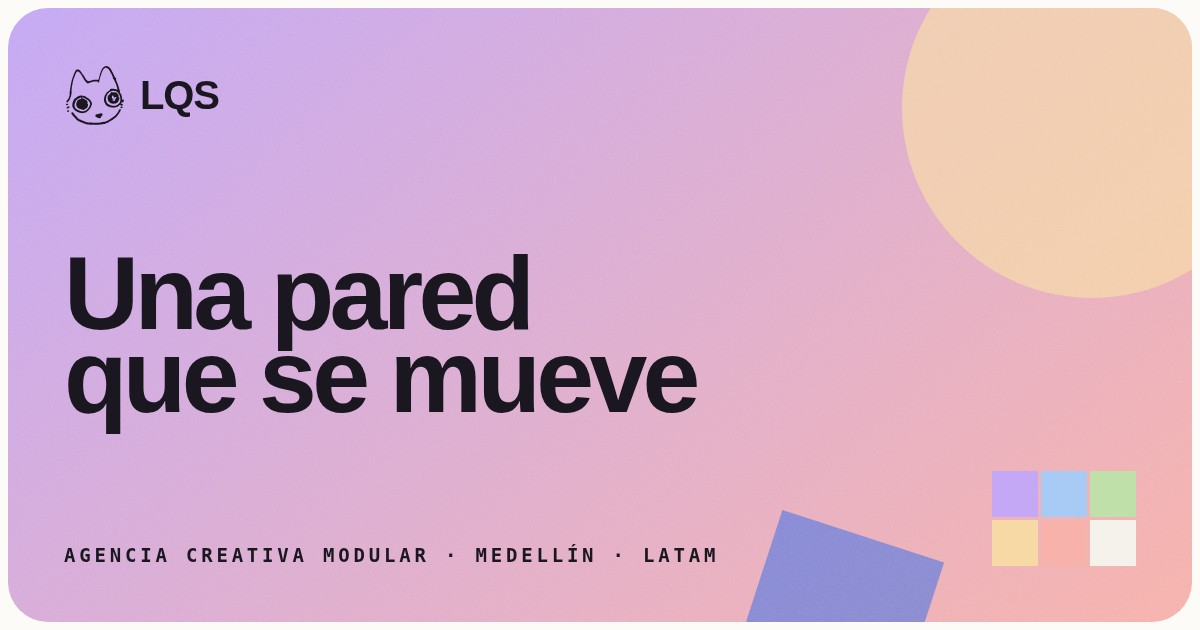
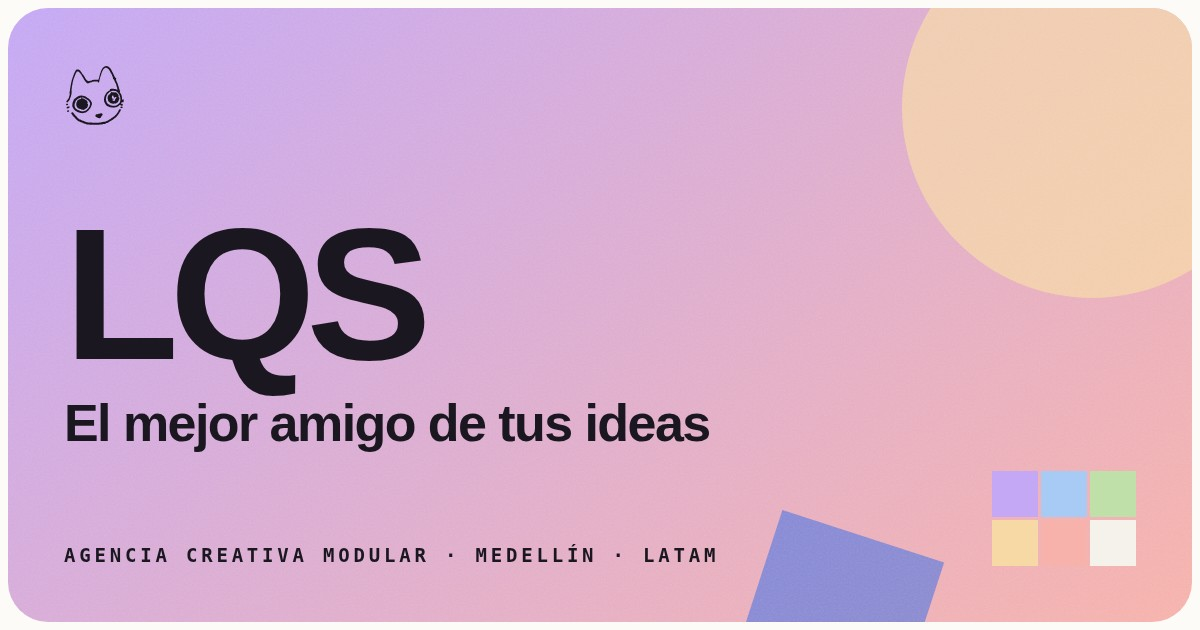
Hero: LQS + «El mejor amigo de tus ideas»
El titular pasa a ser la marca. El concepto «una pared que se mueve»
sigue nombrando al sistema visual, pero ya no es lo que se lee primero.

Changed region(s): [[0.0308, 0.3619, 0.6167, 0.7238], [0.0925, 0.1206, 0.185, 0.181]]

diff --git a/index.html b/index.html
@@ -3,19 +3,19 @@
 <head>
 <meta charset="utf-8">
 <meta name="viewport" content="width=device-width,initial-scale=1">
-<meta name="description" content="LQS es una agencia creativa modular de Medellin para LatAm. Siete modulos que se compran sueltos y se conectan entre si: video, foto, marca, redes, web, eventos y automatizacion.">
+<meta name="description" content="El mejor amigo de tus ideas. LQS es una agencia creativa modular de Medellin para LatAm. Siete modulos que se compran sueltos y se conectan entre si: video, foto, marca, redes, web, eventos y automatizacion.">
 <meta name="theme-color" content="#FDFBF7">
 <link rel="icon" href="favicon.svg" type="image/svg+xml">
 <link rel="canonical" href="https://motta-bit.github.io/lqs/">
 <meta property="og:type" content="website">
 <meta property="og:site_name" content="LQS">
-<meta property="og:title" content="LQS — Una pared que se mueve">
-<meta property="og:description" content="LQS es una agencia creativa modular de Medellin para LatAm. Siete modulos que se compran sueltos y se conectan entre si: video, foto, marca, redes, web, eventos y automatizacion.">
+<meta property="og:title" content="LQS — El mejor amigo de tus ideas">
+<meta property="og:description" content="El mejor amigo de tus ideas. LQS es una agencia creativa modular de Medellin para LatAm. Siete modulos que se compran sueltos y se conectan entre si: video, foto, marca, redes, web, eventos y automatizacion.">
 <meta property="og:url" content="https://motta-bit.github.io/lqs/">
 <meta property="og:image" content="https://motta-bit.github.io/lqs/og.jpg">
 <meta property="og:locale" content="es_CO">
 <meta name="twitter:card" content="summary_large_image">
-<title>LQS</title>
+<title>LQS — El mejor amigo de tus ideas</title>
 <link rel="preconnect" href="https://fonts.gstatic.com" crossorigin>
 <link rel="stylesheet" href="https://fonts.googleapis.com/css2?family=Syne:wght@700;800&family=Rubik:wght@400;500;900&family=IBM+Plex+Mono:wght@400;600&family=Newsreader:ital,wght@1,300&display=swap">
 <style>
@@ -82,15 +82,15 @@ p{margin:0}
   background:linear-gradient(140deg,var(--p-violeta),var(--p-rojo));color:#1A1720;
   padding:clamp(28px,5vw,56px);min-height:min(78vh,620px);
   display:flex;flex-direction:column;justify-content:space-between;gap:30px}
+.hero h1{font-size:clamp(96px,19vw,230px);line-height:.8;letter-spacing:-.05em}
+.hero .lema{font-family:'Syne',system-ui,sans-serif;font-weight:800;
+  font-size:clamp(24px,4.2vw,50px);line-height:1;letter-spacing:-.03em;margin-top:clamp(10px,1.6vw,22px)}
 .hero .lede{max-width:44ch;font-size:clamp(15px,1.7vw,18px)}
 .hero .acc{display:flex;gap:10px;flex-wrap:wrap;margin-top:22px}
 .h-forma{position:absolute;border-radius:50%;background:var(--p-ambar);opacity:.7;
   right:-70px;top:-70px;width:min(300px,46vw);aspect-ratio:1}
 .h-forma2{position:absolute;right:27%;bottom:-70px;width:150px;height:150px;
   background:var(--azul);opacity:.5;transform:rotate(18deg)}
-.h-cara{position:absolute;right:clamp(20px,5vw,60px);bottom:clamp(20px,4vw,48px);
-  width:clamp(84px,12vw,132px);aspect-ratio:1;color:var(--tinta);z-index:2}
-@media(max-width:700px){.h-cara{display:none}}
 
 /* entrada: los bloques se arman. Sin JS o con reduced-motion ya están armados. */
 .arma .apila{animation:apila .72s cubic-bezier(.2,.9,.25,1) both}
@@ -377,7 +377,8 @@ footer{background:var(--tinta);color:var(--papel);margin-top:64px;padding:52px 0
     <div class="h-forma2"></div>
     <div>
       <div class="eyebrow" style="color:#1A1720;opacity:.7">Agencia creativa modular · Medellín · LatAm</div>
-      <h1>Una pared<br>que se mueve</h1>
+      <h1>LQS</h1>
+      <p class="lema">El mejor amigo de tus ideas</p>
     </div>
     <div>
       <p class="lede">No tenés que cambiar de proveedor. Empezás por lo que más te duele
@@ -387,7 +388,6 @@ footer{background:var(--tinta);color:var(--papel);margin-top:64px;padding:52px 0
         <a class="btn ghost" href="#modulos">Ver los módulos</a>
       </div>
     </div>
-    <span class="h-cara" id="hero-cara"></span>
   </div>
 </section>
 
@@ -1161,7 +1161,6 @@ $("#logo-cara").innerHTML = LOGO;
 $("#pie-cara").innerHTML  = LOGO;
 
 /* ---------- caritas de interfaz ---------- */
-var caraHero = new Carita($("#hero-cara"), {gesto:"contenta", seguir:true});
 var caraCot  = new Carita($("#cot-cara"),  {gesto:"guino",    seguir:false});
 
 /* ---------- 00 cabecera ---------- */

diff --git a/fuente/cab.html b/fuente/cab.html
@@ -1,4 +1,4 @@
-<title>LQS</title>
+<title>LQS — El mejor amigo de tus ideas</title>
 <link rel="preconnect" href="https://fonts.gstatic.com" crossorigin>
 <link rel="stylesheet" href="https://fonts.googleapis.com/css2?family=Syne:wght@700;800&family=Rubik:wght@400;500;900&family=IBM+Plex+Mono:wght@400;600&family=Newsreader:ital,wght@1,300&display=swap">
 <style>
@@ -65,15 +65,15 @@ p{margin:0}
   background:linear-gradient(140deg,var(--p-violeta),var(--p-rojo));color:#1A1720;
   padding:clamp(28px,5vw,56px);min-height:min(78vh,620px);
   display:flex;flex-direction:column;justify-content:space-between;gap:30px}
+.hero h1{font-size:clamp(96px,19vw,230px);line-height:.8;letter-spacing:-.05em}
+.hero .lema{font-family:'Syne',system-ui,sans-serif;font-weight:800;
+  font-size:clamp(24px,4.2vw,50px);line-height:1;letter-spacing:-.03em;margin-top:clamp(10px,1.6vw,22px)}
 .hero .lede{max-width:44ch;font-size:clamp(15px,1.7vw,18px)}
 .hero .acc{display:flex;gap:10px;flex-wrap:wrap;margin-top:22px}
 .h-forma{position:absolute;border-radius:50%;background:var(--p-ambar);opacity:.7;
   right:-70px;top:-70px;width:min(300px,46vw);aspect-ratio:1}
 .h-forma2{position:absolute;right:27%;bottom:-70px;width:150px;height:150px;
   background:var(--azul);opacity:.5;transform:rotate(18deg)}
-.h-cara{position:absolute;right:clamp(20px,5vw,60px);bottom:clamp(20px,4vw,48px);
-  width:clamp(84px,12vw,132px);aspect-ratio:1;color:var(--tinta);z-index:2}
-@media(max-width:700px){.h-cara{display:none}}
 
 /* entrada: los bloques se arman. Sin JS o con reduced-motion ya están armados. */
 .arma .apila{animation:apila .72s cubic-bezier(.2,.9,.25,1) both}

diff --git a/fuente/cuerpo.html b/fuente/cuerpo.html
@@ -19,7 +19,8 @@
     <div class="h-forma2"></div>
     <div>
       <div class="eyebrow" style="color:#1A1720;opacity:.7">Agencia creativa modular · Medellín · LatAm</div>
-      <h1>Una pared<br>que se mueve</h1>
+      <h1>LQS</h1>
+      <p class="lema">El mejor amigo de tus ideas</p>
     </div>
     <div>
       <p class="lede">No tenés que cambiar de proveedor. Empezás por lo que más te duele
@@ -29,7 +30,6 @@
         <a class="btn ghost" href="#modulos">Ver los módulos</a>
       </div>
     </div>
-    <span class="h-cara" id="hero-cara"></span>
   </div>
 </section>
 

diff --git a/fuente/pie.html b/fuente/pie.html
@@ -26,7 +26,6 @@ $("#logo-cara").innerHTML = LOGO;
 $("#pie-cara").innerHTML  = LOGO;
 
 /* ---------- caritas de interfaz ---------- */
-var caraHero = new Carita($("#hero-cara"), {gesto:"contenta", seguir:true});
 var caraCot  = new Carita($("#cot-cara"),  {gesto:"guino",    seguir:false});
 
 /* ---------- 00 cabecera ---------- */

diff --git a/fuente/publicar.py b/fuente/publicar.py
@@ -4,6 +4,7 @@ BASE = pathlib.Path(__file__).parent
 OUT  = BASE.parent
 OUT.mkdir(exist_ok=True)
 
+# siempre reconstruye: editar lqs.html a mano se pierde
 import subprocess, sys
 subprocess.run([sys.executable, str(BASE / "build.py")], check=True, cwd=BASE)
 
@@ -19,7 +20,7 @@ assert "NOTA DE ARMADO" not in html, "la nota no se quito"
 i = html.index("</style>") + len("</style>")
 cabeza, cuerpo = html[:i], html[i:]
 
-DESC = ("LQS es una agencia creativa modular de Medellin para LatAm. "
+DESC = ("El mejor amigo de tus ideas. LQS es una agencia creativa modular de Medellin para LatAm. "
         "Siete modulos que se compran sueltos y se conectan entre si: "
         "video, foto, marca, redes, web, eventos y automatizacion.")
 URL  = "https://motta-bit.github.io/lqs/"
@@ -35,7 +36,7 @@ doc = f"""<!doctype html>
 <link rel="canonical" href="{URL}">
 <meta property="og:type" content="website">
 <meta property="og:site_name" content="LQS">
-<meta property="og:title" content="LQS — Una pared que se mueve">
+<meta property="og:title" content="LQS — El mejor amigo de tus ideas">
 <meta property="og:description" content="{DESC}">
 <meta property="og:url" content="{URL}">
 <meta property="og:image" content="{URL}og.jpg">
